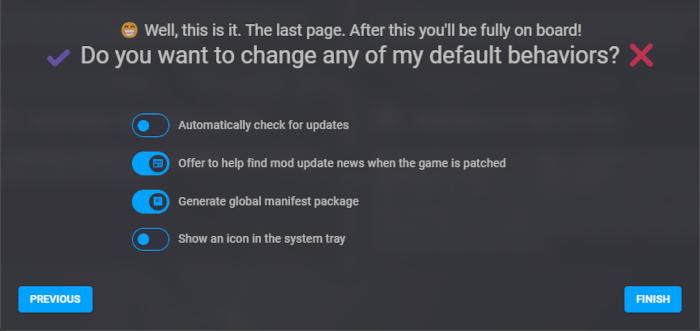
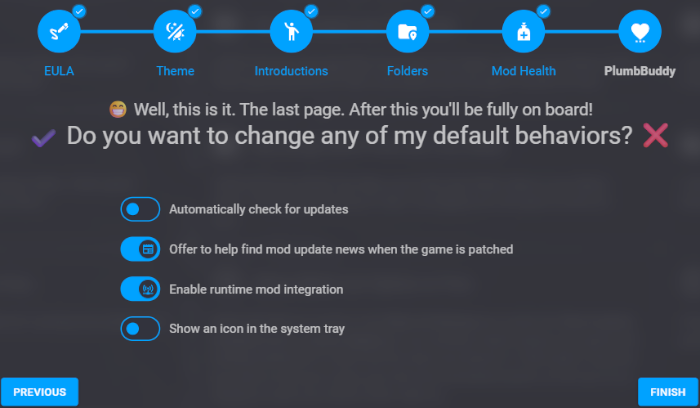
updating guides for the current version of PB

diff --git a/src/pages/text-guides/manifest-editor.vue b/src/pages/text-guides/manifest-editor.vue
@@ -17,7 +17,7 @@
         <v-divider />
         <p>
             <center>Jump To:</center>
-            <center><a href="#select">Select</a> &emsp; <a href="#details">Details</a> &emsp; <a href="#components">Components</a> &emsp; <a href="#requirements">Requirements</a> &emsp; <a href="#cross-mod">Cross-Mod</a> &emsp; <a href="#hashing">Hashing</a> &emsp; <a href="#confirm">Confirm</a> &emsp; <a href="#providing-support-for-your-mods">Providing Support for Your Mods</a></center>
+            <center><a href="#select">Select</a> &emsp; <a href="#details">Details</a> &emsp; <a href="#components">Components</a> &emsp; <a href="#requirements">Requirements</a> &emsp; <a href="#cross-mod">Cross-Mod</a> &emsp; <a href="#hashing">Hashing</a> &emsp; <a href="#confirm">Confirm</a> &emsp; <a href="#updating-a-manifest">Updating a Manifest</a> &emsp; <a href="#providing-support-for-your-mods">Providing Support for Your Mods</a></center>
         </p>
         <v-divider />
         <Markdown

diff --git a/src/pages/text-guides/creator-onboarding.md b/src/pages/text-guides/creator-onboarding.md
@@ -109,7 +109,7 @@ You can read more about the various Mod Health scans on the [Mod Health](https:/
 
 Once you've made your decisions, click Next on the bottom right.
 
-![image](/img/PB-Setup-ModHealth-creator.png "An image of the Mod Health settings as described above: four bars, the top three empty and the bottom one with one coloured bubble representing an active Mod Health scan. At the right of each bar is an x for removing all scans and a symbol to click to open a dropdown menu. At the bottom are Enable All, Disable All, and Set Default buttons.")
+![image](/img/PB-Setup-ModHealth-creator.png "An image of the Mod Health settings as described above: four bars, the two three empty, the third and fourth with coloured bubbles representing active Mod Health scans. At the right of each bar is an x for removing all scans and a symbol to click to open a dropdown menu. At the bottom are Enable All, Disable All, and Set Default buttons.")
 
 ---
 
@@ -126,24 +126,15 @@ Below that are a series of toggles:
 ![image](/img/auto-check-for-updates.png "Automatically check for updates")
 * You can turn on offering to help you find mod update news after you’ve updated your game.
 ![image](/img/offer-mod-news.png "Offer to help find mod update news when the game is patched")
-* You can turn off the global manifest package.
-    * This is a file that will be created in your Mods folder which makes the information PlumbBuddy has about the mods installed in your Mods folder available so that other mods can make use of it.
-![image](/img/generate-global-manifest.png "Generate global manifest package")
+* You can turn off runtime integration.
+    * This will create two files in your Mods folder, a package and a script. They will make the information PlumbBuddy has about the mods installed in your Mods folder available so that other mods can make use of it, and allow script mods to make use of PlumbBuddy's Relational Data Storage and UI Bridges.
+![image](/img/enable-runtime.png "Enable runtime mod integration")
 * You can turn on PlumbBuddy having an icon in the system tray on Windows.
 ![image](/img/show-icon-tray.png "Show an icon in the system tray")
-* You can turn off having PlumbBuddy store a mod's hash once it has been manifested.
-    * This is to assist you and players by having PlumbBuddy keep a background record that you've manifested a mod before even if the current version you're manifesting doesn't contain a manifest.
-![image](/img/auto-catalog.png "Automatically catalog mod manifests when composition succeeds")
-* You can turn off PlumbBuddy recording inside the manifest that you've previously manifested the mod, if you're manifesting a mod with the same name and creators but without an existing manifest. 
-    * This will ensure that if you update a mod and another mod lists it as a requirement in that mod's manifest, it will continue to count for the mod that was required before.
-    * If this is off and you manifest a mod without its previous manifest included, then PlumbBuddy will think that the requirements are not met.
-![image](/img/auto-subsume.png "Automatically subsume identically credited single-file mods when initializing a manifest")
-
-The last two toggles are a backup system for manifest hashes and it's probably best to leave them on.
 
 Once you’ve made a decision, click Finish on the bottom right.
 
-![image](/img/PB-PBsettings-creator.png "An image of the PlumbBuddy app settings, with 'Automatically check for updates' and 'Offer to find mod update news when the game is patched' toggled off,  'Generate global manifest package' toddled on, 'Show an icon in the system tray' toggled off, and 'Automatically catalog manifests when composition succeeds' and 'Automatically subsume identically credited single-file mods when initializing a manifest' toggled off")
+![image](/img/PB-PBsettings-creator.png "An image of the PlumbBuddy app settings, with 'Automatically check for updates' and 'Offer to find mod update news when the game is patched' toggled off,  'Enable runtime mod integration' toggled on, and 'Show an icon in the system tray' toggled off.")
 
 And we're done!
 

diff --git a/src/pages/text-guides/creator-features.md b/src/pages/text-guides/creator-features.md
@@ -6,7 +6,7 @@ You might get some alerts right away. PlumbBuddy will do its best to tell you wh
 
 If you get an alert and want more information, there will be a question mark on the alert that you can click to bring you to the Mod Health guide's page.
 
-![image](/img/PB-creator-mod-health.png "An image of the Mod Health tab of PlumbBuddy, with no alerts, and all other tabs visible across the top")
+![image](/img/PB-enth-mod-health.png "An image of the Mod Health tab of PlumbBuddy, with no alerts, the names of and all other tabs in a list at the left")
 
 If you want to learn more about the scans themselves, go to the [Mod Health](https://plumbbuddy.app/text-guides/creator-mod-health) guide.
 
@@ -23,6 +23,7 @@ If you go to the Catalog tab, you’ll see all of the mods you currently have in
 * An Ask for Help button to seek help with the mod, which will give options to go to a support avenue specified by the creator if they listed one, or to go to a find general support (If you'd like to list a support venue, let us know — it's linked from the PlumbBuddy website, not in the manifest)
 * Packs the mod requires (in green on the default theme)
 * Packs the mod cannot be used with (in red on the default theme)
+* Packs that the creator says will make using the mod better (in blue on the default theme)
 * The files that are in the mod
 * Any extra mods that the mod requires, as long as they have manifests themselves (dependencies)
 * Any other mods that require the mod, as long as they have manifests themselves (dependants)
@@ -31,7 +32,7 @@ You can click buttons on the right of the file names or dependency/dependant to 
 
 You can search the whole catalogue on the top right of the catalogue, and you can search the mod itself, if you need to, to the right side of the screen.
 
-![image](/img/PB-catalog.png "An image of the Catalog tab, with a mod selected, showing the mod's name, link, creator, and required packs and an Ask For Help button at the top, with the files and required mod listed below. Across the top are the other tabs.")
+![image](/img/PB-catalog.png "An image of the Catalog tab, with a mod selected, showing the mod's name, link, creator, and required packs and an Ask For Help button at the top, with the files and required mod listed below.")
 
 ---
 
@@ -91,3 +92,11 @@ While not its purpose, it can also be used to customize the existing strings of 
 For more information about translating with Parlay, please visit the [Parlay guide for translators](https://plumbbuddy.app/text-guides/player-parlay).
 
 To learn more about Parlay as a mod creator, including how to incorporate translations created using Parlay into your own mods and how to credit translators in your manifests, visit the [Parlay](https://plumbbuddy.app/text-guides/creator-parlay) guide.
+
+---
+
+### Relational Data Storage and UI Bridge
+
+Relational Data Storage (RDS) is storage accessible by script mods in two varieties: global or per save. GLobal storage is accessible from all saves and is stored with a player's PlumbBuddy files in a SQLite database. Storage per save is stored in the player's save file. RDS operates outside the simulation and so does not burden the game. For more information about RDS, please see [here](https://github.com/Llama-Logic/PlumbBuddy/wiki/Relational-Data-Storage).
+
+UI Bridges allow script mods to display visual elements outside the game, in PlumbBuddy, as essentially a sandboxed website without access to the internet. UI Bridges can make use of RDS and PlumbBuddy's ability to catalogue the game's strings and images, and are only permitted to operate when allowed by the player. For more information about UI Bridges, please see [here](https://github.com/Llama-Logic/PlumbBuddy/wiki/UI-Bridge).

diff --git a/src/pages/text-guides/creator-ui.md b/src/pages/text-guides/creator-ui.md
@@ -2,13 +2,15 @@ Once PlumbBuddy is set up, it will open to the Mod Health tab and start scanning
 
 First it will start cataloging your mods. It will give an estimated time of how long that will take at the top, and there will be a progress bar. You should wait until this is mostly complete — until it's scanning topography — to do anything, because PlumbBuddy needs exclusive access to your files until it knows what they are.
 
-![image](/img/PB-enth-cataloging.png "An image of the top bar of the PlumbBuddy app, with a Cataloging Mods bar filling towards a timer counting down")
+![image](/img/PB-creator-cataloging.png "An image of the top bar of the PlumbBuddy app, with a Cataloging Mods bar filling towards a timer counting down")
 
 Once PlumbBuddy is done scanning your Mods folder, it will begin analyzing your cache files to see if they need to be deleted. You can go ahead and make changes now or begin manifesting a mod if you're ready. If PlumbBuddy found things that need to be fixed, you can fix them, or you can start your game if you want to play.
 
 The last scan to finish will be the cache, and it will tell you if your cache is fine or needs to be deleted, or if there are no cache files. Typically, you'll be advised to clear your cache if you've removed files from your Mods folder, to delete any remaining data that the game is trying to hold onto from them, or if you've *moved* files in your Mods folder, such as by renaming a folder, so that one file that was overriding another is now being overridden.
 
-![image](/img/PB-creator-analyzing-top.png "An image of the top bar of the PlumbBuddy app, with an Analyzing Topography notification")
+Once the cache is analyzed, PlumbBuddy will begin cataloging game files. It will catalogue strings and images from the game for use by script mods, primarily in UI Bridges.
+
+![image](/img/PB-creator-analyzing-files.png "An image of the top bar of the PlumbBuddy app, with an Analyzing Topography notification")
 
 ---
 
@@ -16,6 +18,7 @@ After PlumbBuddy finishes cataloging, at the top left, you have:
 
 * The button to open the menu, which is three horizontal lines
 * The PlumbBuddy symbol
+* The toggle for UI Bridge Dev Mode. This defaults off and will be turned off every time you close PlumbBuddy.
 * A button to open your Downloads folder — or the one you chose as your Downloads folder in settings
 * A button to open your Mods folder
 * A button to quickly clear your cache files
@@ -61,7 +64,7 @@ Some of the tabs have a question mark at the bottom that you can click if you wa
 
 Pick which kind of setting you want to change or look at, and when that setting is the way you want it, click OK at the bottom right, or cancel if you don't want to change anything.
 
-![image](/img/PB-enth-settings.png "An image of the General tab of PlumbBuddy's settings, showing that the current user is an Enthusiast Player, with 'Automatically check for updates' and 'Offer to find mod update news when the game is patched' toggled off, 'Generate global manifest package' toddled on, and 'Show an icon in the system tray' toggled off, and the other tabs along the top")
+![image](/img/PB-creator-settings.png "An image of the General tab of PlumbBuddy's settings, showing that the current user is an Creator with a chosen Default Creator name, with 'Automatically check for updates' and 'Offer to find mod update news when the game is patched' toggled off, 'Enable runtime mod integration' toggled on, and 'Show an icon in the system tray' toggled off, and the other tabs along the top")
 
 If you want to, you can continue on to [The Features](https://plumbbuddy.app/text-guides/creator-features) to see some things PlumbBuddy does to keep your Mods folder Healthy.
 

diff --git a/src/pages/text-guides/enthusiast-features.md b/src/pages/text-guides/enthusiast-features.md
@@ -6,7 +6,7 @@ You might get some alerts right away. PlumbBuddy will do its best to tell you wh
 
 If you get an alert and want more information, there will be a question mark on the alert that you can click to bring you to the Mod Health guide's page.
 
-![image](/img/PB-enth-mod-health.png "An image of the Mod Health tab of PlumbBuddy, with no alerts, and all other tabs visible across the top")
+![image](/img/PB-enth-mod-health.png "An image of the Mod Health tab of PlumbBuddy, with no alerts, the names of and all other tabs in a list at the left")
 
 If you want to learn more about the scans themselves, go to the [Mod Health](https://plumbbuddy.app/text-guides/enthusiast-mod-health) guide.
 
@@ -23,6 +23,7 @@ If you go to the Catalog tab, you’ll see all of the mods you currently have in
 * An Ask for Help button to seek help with the mod, which will give you options to go to a support avenue specified by the creator if they listed one, or to go to a find general support
 * Packs the mod requires (in green on the default theme)
 * Packs the mod cannot be used with (in red on the default theme)
+* Packs that the creator says will make using the mod better (in blue on the default theme)
 * The files that are in the mod
 * Any extra mods that the mod requires, as long as they have manifests themselves (dependencies)
 * Any other mods that require the mod, as long as they have manifests themselves (dependants)
@@ -31,7 +32,7 @@ You can click buttons on the right of the file names or dependency/dependant to 
 
 You can search the whole catalogue on the top right of the catalogue, and you can search the mod itself, if you need to, to the right side of the screen.
 
-![image](/img/PB-catalog.png "An image of the Catalog tab, with a mod selected, showing the mod's name, link, creator, and required packs and an Ask For Help button at the top, with the files and required mod listed below. Across the top are the other tabs.")
+![image](/img/PB-catalog.png "An image of the Catalog tab, with a mod selected, showing the mod's name, link, creator, and required packs and an Ask For Help button at the top, with the files and required mod listed below.")
 
 ---
 
@@ -56,7 +57,7 @@ The report will only give advice about mods that the creator has listed on Mod H
 
 In addition, many of the files in the report will come with buttons to view the file in your mods folder and/or to go to the download page for the mod, or in the case of the missing requirement, to download that.
 
-![image](/img/PB-ModHoundTab.png "The Mod Hound tab, with a dog at the top left and a report selected below that, but no results shown to the right. The background is a frog on a lily pad.")
+![image](/img/PB-ModHoundTab.png "The Mod Hound tab, with a dog at the top left and a report selected to the right. The Outdated section of the report is shown below, with one outdated mod listed.")
 
 If you want to learn more about how to use Mod Hound withing PlumbBuddy, visit the [Mod Hound](https://plumbbuddy.app/text-guides/enthusiast-mod-hound) guide.
 

diff --git a/src/pages/text-guides/casual-features.md b/src/pages/text-guides/casual-features.md
@@ -6,7 +6,7 @@ You might get some alerts right away. That’s fine. PlumbBuddy will do its best
 
 If you get an alert and want more information, there will be a question mark on the alert that you can click to bring you to the Mod Health guide's page.
 
-![image](/img/PB-casual-mod-health.png "An image of the Mod Health tab of PlumbBuddy, with no alerts, and all other tabs visible across the top")
+![image](/img/PB-casual-mod-health.png "An image of the Mod Health tab of PlumbBuddy, with no alerts, the names of and all other tabs in a list at the left")
 
 If you want to learn more about the scans themselves, go to the [Mod Health](https://plumbbuddy.app/text-guides/casual-mod-health) guide.
 
@@ -23,6 +23,7 @@ If you go to the Catalog tab, you’ll see all of the mods you currently have in
 * An Ask for Help button to seek help with the mod, which will give you options to go to a support avenue specified by the creator if they listed one, or to go to a find general support
 * Packs the mod requires (in green on the default theme)
 * Packs the mod cannot be used with (in red on the default theme)
+* Packs that the creator says will make using the mod better (in blue on the default theme)
 * The files that are in the mod
 * Any extra mods that the mod requires, as long as they have manifests themselves (dependencies)
 * Any other mods that require the mod, as long as they have manifests themselves (dependants)
@@ -31,7 +32,7 @@ You can click buttons on the right of the file names or dependency/dependant to 
 
 You can search the whole catalogue on the top right of the catalogue, and you can search the mod itself, if you need to, to the right side of the screen.
 
-![image](/img/PB-catalog.png "An image of the Catalog tab, with a mod selected, showing the mod's name, link, creator, and required packs and an Ask For Help button at the top, with the files and required mod listed below. Across the top are the other tabs.")
+![image](/img/PB-catalog.png "An image of the Catalog tab, with a mod selected, showing the mod's name, link, creator, and required packs and an Ask For Help button at the top, with the files and required mod listed below.")
 
 ---
 
@@ -56,7 +57,7 @@ The report will only give advice about mods that the creator has listed on Mod H
 
 In addition, many of the files in the report will come with buttons to view the file in your mods folder and/or to go to the download page for the mod, or in the case of the missing requirement, to download that.
 
-![image](/img/PB-ModHoundTab.png "The Mod Hound tab, with a dog at the top left and a report selected below that, but no results shown to the right. The background is a frog on a lily pad.")
+![image](/img/PB-ModHoundTab.png "The Mod Hound tab, with a dog at the top left and a report selected to the right. The Outdated section of the report is shown below, with one outdated mod listed.")
 
 If you want to learn more about how to use Mod Hound withing PlumbBuddy, visit the [Mod Hound](https://plumbbuddy.app/text-guides/casual-mod-hound) guide.
 

diff --git a/src/pages/text-guides/casual-mod-hound.md b/src/pages/text-guides/casual-mod-hound.md
@@ -14,7 +14,7 @@ Mod Hound has collaborated with PlumbBuddy to incorporate these scans into the P
 
 Mod Hound settings can be accessed in the menu on the left of PlumbBuddy, with other PlumbBuddy settings, of from the Mod Hound tab, by clicking on the gear icon next to the Request New Report button.
 
-![image](/img/modhound-gear.png "The Mod Hound dog in a circle at the top, a Fetch Report button, a gear icon, and a question mark in a circle below that, an empty Display Report box below that, and an invitation to support Lumpinou to support Mod Hound at the bottom")
+![image](/img/modhound-gear.png "The Mod Hound dog in a circle at the left, a Fetch Report button, a gear icon, and a question mark in a circle to the right, and an empty Display Report box below that.")
 
 ---
 
@@ -60,7 +60,7 @@ If your Mod Health scans aren't complete yet, PlumbBuddy will pause before sendi
 
 PlumbBuddy will keep you updated on your report's progress.
 
-![image](/img/modhound-in-progress.png "The Mod Hound dog in a circle at the top above the words Waiting for Mod Hound's response, and a filling blue bar at the bottom")
+![image](/img/modhound-in-progress.png "The Mod Hound dog in a circle at the left with a blue bar being filled at the outside, and the words Your Request is Being Processed to the right above an empty Display Report box")
 
 When your report is ready, there will be a notification in the top right.
 
@@ -72,15 +72,15 @@ Or you might get a notification that you've already requested a report on this e
 
 If you want to view an existing report, you can select it from the menu.
 
-![image](/img/modhound-pick-report.png "A selection menu with six dates/times to select, in front of the Mod Hound dog")
+![image](/img/modhound-pick-report.png "A selection menu with four dates/times to select in the foreground, with the Mod Hound logo and buttons faded in the background")
 
 ---
 
 ### Reading a Report
 
-Once you have (or select) your report, everything might be all good, or you might have some results that you should work on. Click on a section of the report to see what it says.
+Once you have (or select) your report, everything might be all good, or you might have some results that you should work on. Hover over the icons to see the name of the report section. Click on a section of the report to see what it says.
 
-![image](/img/modhound-report-menu.png "At the top is a date in a box titled Display Report. Below that is a list of categories, each with a number to the right.")
+![image](/img/modhound-report-menu.png "At the left is the Mod Hound logo. In the middle is the FEtch Report button and the Display Report selection box. To the right are 8 icons, each representing part of the report.")
 
 Each report can be searched by file, mod, or creator name, by date, and by the update notes. You can clear your search by clicking the X in the search bar.
 

diff --git a/src/pages/text-guides/enthusiast-mod-hound.md b/src/pages/text-guides/enthusiast-mod-hound.md
@@ -14,7 +14,7 @@ Mod Hound has collaborated with PlumbBuddy to incorporate these scans into the P
 
 Mod Hound settings can be accessed in the menu on the left of PlumbBuddy, with other PlumbBuddy settings, of from the Mod Hound tab, by clicking on the gear icon next to the Request New Report button.
 
-![image](/img/modhound-gear.png "The Mod Hound dog in a circle at the top, a Fetch Report button, a gear icon, and a question mark in a circle below that, an empty Display Report box below that, and an invitation to support Lumpinou to support Mod Hound at the bottom")
+![image](/img/modhound-gear.png "The Mod Hound dog in a circle at the left, a Fetch Report button, a gear icon, and a question mark in a circle to the right, and an empty Display Report box below that.")
 
 ---
 
@@ -70,7 +70,7 @@ If your Mod Health scans aren't complete yet, PlumbBuddy will pause before sendi
 
 PlumbBuddy will keep you updated on your report's progress.
 
-![image](/img/modhound-in-progress.png "The Mod Hound dog in a circle at the top above the words Waiting for Mod Hound's response, and a filling blue bar at the bottom")
+![image](/img/modhound-in-progress.png "The Mod Hound dog in a circle at the left with a blue bar being filled at the outside, and the words Your Request is Being Processed to the right above an empty Display Report box")
 
 When your report is ready, there will be a notification in the top right.
 
@@ -82,7 +82,7 @@ Or you might get a notification that you've already requested a report on this e
 
 If you want to view an existing report, you can select it from the drop down box.
 
-![image](/img/modhound-pick-report.png "A selection menu with six dates/times to select, in front of the Mod Hound dogs")
+![image](/img/modhound-pick-report.png "A selection menu with four dates/times to select in the foreground, with the Mod Hound logo and buttons faded in the background")
 
 ---
 
@@ -90,7 +90,7 @@ If you want to view an existing report, you can select it from the drop down box
 
 Once you have (or select) your report, everything might be all good, or you might have some results that you should work on. Click on a section of the report to see what it says.
 
-![image](/img/modhound-report-menu.png "At the top is a date in a box titled Display Report. Below that is a list of categories, each with a number to the right.")
+![image](/img/modhound-report-menu.png "At the left is the Mod Hound logo. In the middle is the FEtch Report button and the Display Report selection box. To the right are 8 icons, each representing part of the report.")
 
 Each report can be searched by file, mod, or creator name, by date, and by the update notes. You can clear your search by clicking the X in the search bar.
 

diff --git a/src/pages/text-guides/creator-mod-hound.md b/src/pages/text-guides/creator-mod-hound.md
@@ -18,7 +18,7 @@ If you'd like to list your mods on Mod Hound, instructions are available [here](
 
 Mod Hound settings can be accessed in the menu on the left of PlumbBuddy, with other PlumbBuddy settings, of from the Mod Hound tab, by clicking on the gear icon next to the Request New Report button.
 
-![image](/img/modhound-gear.png "The Mod Hound dog in a circle at the top, a Fetch Report button, a gear icon, and a question mark in a circle below that, an empty Display Report box below that, and an invitation to support Lumpinou to support Mod Hound at the bottom")
+![image](/img/modhound-gear.png "The Mod Hound dog in a circle at the left, a Fetch Report button, a gear icon, and a question mark in a circle to the right, and an empty Display Report box below that.")
 
 ---
 
@@ -74,7 +74,7 @@ If your Mod Health scans aren't complete yet, PlumbBuddy will pause before sendi
 
 PlumbBuddy will keep you updated on your report's progress.
 
-![image](/img/modhound-in-progress.png "The Mod Hound dog in a circle at the top above the words Waiting for Mod Hound's response, and a filling blue bar at the bottom")
+![image](/img/modhound-in-progress.png "The Mod Hound dog in a circle at the left with a blue bar being filled at the outside, and the words Your Request is Being Processed to the right above an empty Display Report box")
 
 When your report is ready, there will be a notification in the top right.
 
@@ -86,7 +86,7 @@ Or you might get a notification that you've already requested a report on this e
 
 If you want to view an existing report, you can select it from the drop down box.
 
-![image](/img/modhound-pick-report.png "A selection menu with six dates/times to select, in front of the Mod Hound dog")
+![image](/img/modhound-pick-report.png "A selection menu with four dates/times to select in the foreground, with the Mod Hound logo and buttons faded in the background")
 
 ---
 
@@ -94,7 +94,7 @@ If you want to view an existing report, you can select it from the drop down box
 
 Once you have (or select) your report, everything might be all good, or you might have some results that you should work on. Click on a section of the report to see what it says.
 
-![image](/img/modhound-report-menu.png "At the top is a date in a box titled Display Report. Below that is a list of categories, each with a number to the right.")
+![image](/img/modhound-report-menu.png "At the left is the Mod Hound logo. In the middle is the FEtch Report button and the Display Report selection box. To the right are 8 icons, each representing part of the report.")
 
 Each report can be searched by file, mod, or creator name, by date, and by the update notes. You can clear your search by clicking the X in the search bar.
 

diff --git a/src/pages/text-guides/casual-download.md b/src/pages/text-guides/casual-download.md
@@ -2,9 +2,9 @@
 
 The easiest way to install the PlumbBuddy app is from [the download page](https://plumbbuddy.app/download). There, the website will make a pretty good guess about which version you need, but you can pick another version if it guesses wrong. The one at the top is the one you'll want most of the time.
 
-![image](/img/Download.png "An image of the PlumbBuddy download options, with the Windows download for non-ARM computers at the top. Under Other Options below, are an alternate download for non-ARM computers, the Mac download, and the download for Windows computers using ARM")
+![image](/img/Download.png "An image of the PlumbBuddy download options, with the Windows download for non-ARM computers at the top. Under Other Options below, are the Mac download and the download for Windows computers using ARM")
 
-If you're on a non-ARM Windows computer, you want a .msix file with the Windows symbol that doesn't have AMD in the file name. If you're on an ARM Windows computer, you want can use any of the .msix files, but the one specifically for ARM computers may give increased performance. If you aren't sure if you have an ARM computer, use the regular non-ARM file, unless the PlumbBuddy site detects that you are using an ARM computer. If you're on a Mac, you want the .zip file with the 'mac os' symbol. Click on the one that's right for you and download it.
+If you're on a non-ARM Windows computer, you want `PlumbBuddy_1.5.37_x64.msix`. If you're on an ARM Windows computer, you want can use either of the .msix files, but `PlumbBuddy_1.5.37_arm64.msix` may give increased performance. If you aren't sure if you have an ARM computer, use the regular non-ARM file, unless the PlumbBuddy site detects that you are using an ARM computer. If you're on a Mac, you want `PlumbBuddy_1.5.37.zip`. Click on the one that's right for you and download it.
 
 If for any reason the website download link isn't working for you, you can also download PlumbBuddy from GitHub. You can get the latest version [here](https://github.com/Llama-Logic/PlumbBuddy/releases/latest). Scroll to the bottom of the page, and download the file that's right for you.
 

diff --git a/src/pages/text-guides/enthusiast-download.md b/src/pages/text-guides/enthusiast-download.md
@@ -2,9 +2,9 @@
 
 The easiest way to install the PlumbBuddy app is from [the download page](https://plumbbuddy.app/download). There, the website will make a pretty good guess about which version you need, but you can pick another version if it guesses wrong. The one at the top is the one you'll want most of the time.
 
-![image](/img/Download.png "An image of the PlumbBuddy download options, with the Windows download for non-ARM computers at the top. Under Other Options below, are an alternate download for non-ARM computers, the Mac download, and the download for Windows computers using ARM")
+![image](/img/Download.png "An image of the PlumbBuddy download options, with the Windows download for non-ARM computers at the top. Under Other Options below, are the Mac download and the download for Windows computers using ARM")
 
-If you're on a non-ARM Windows computer, you want a .msix file with the Windows symbol that doesn't have AMD in the file name. If you're on an ARM Windows computer, you want can use any of the .msix files, but the one specifically for ARM computers may give increased performance. If you aren't sure if you have an ARM computer, use the regular non-ARM file, unless the PlumbBuddy site detects that you are using an ARM computer. If you're on a Mac, you want the .zip file with the 'mac os' symbol. Click on the one that's right for you and download it.
+If you're on a non-ARM Windows computer, you want `PlumbBuddy_1.5.37_x64.msix`. If you're on an ARM Windows computer, you want can use either of the .msix files, but `PlumbBuddy_1.5.37_arm64.msix` may give increased performance. If you aren't sure if you have an ARM computer, use the regular non-ARM file, unless the PlumbBuddy site detects that you are using an ARM computer. If you're on a Mac, you want `PlumbBuddy_1.5.37.zip`. Click on the one that's right for you and download it.
 
 If for any reason the website download link isn't working for you, you can also download PlumbBuddy from GitHub. You can get the latest version [here](https://github.com/Llama-Logic/PlumbBuddy/releases/latest). Scroll to the bottom of the page, and download the correct file for you.
 
